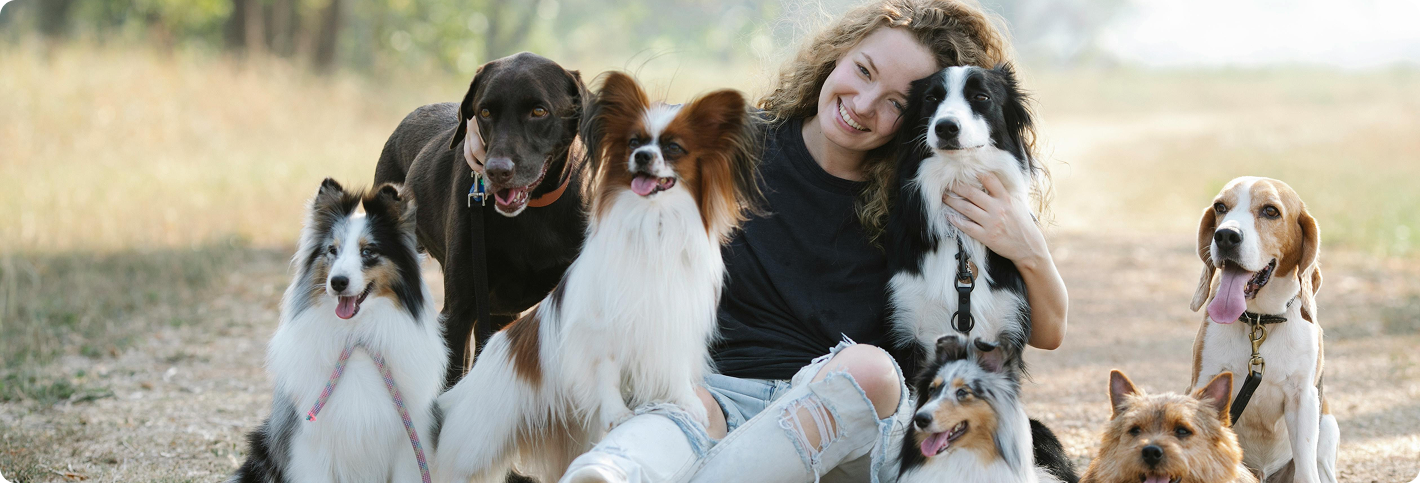
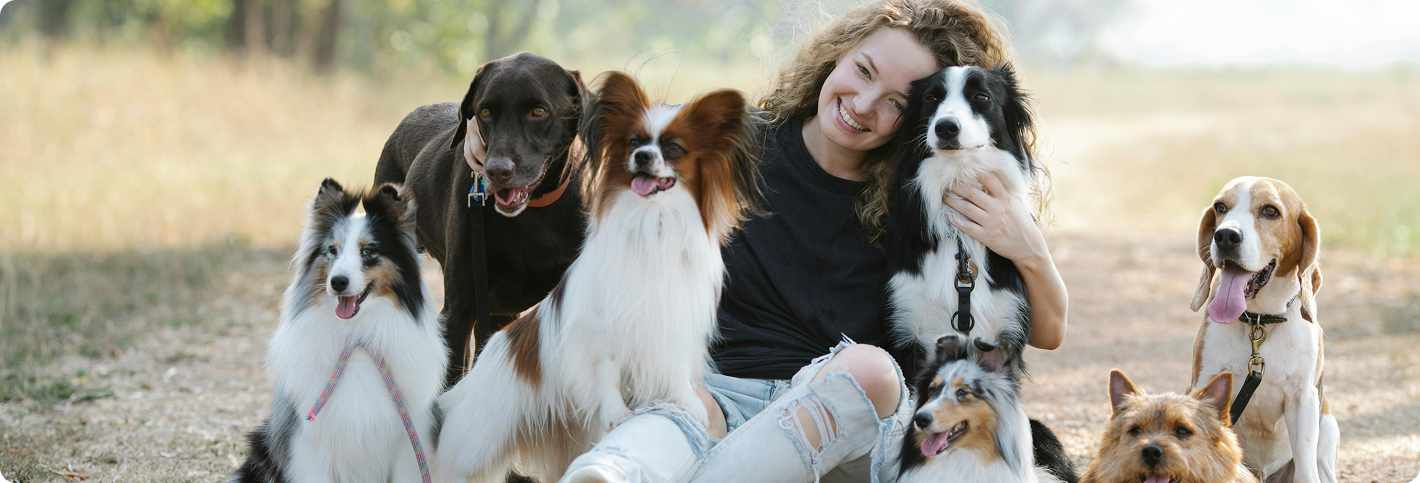
Size reduction for images

diff --git a/resources/views/welcome.blade.php b/resources/views/welcome.blade.php
@@ -12,7 +12,7 @@
 <main>
     <section>
         <div class="lg:relative overflow-hidden">
-            <img src="{{ asset('images/forest_dog.png') }}" alt="" class="w-full lg:min-w-[1098px] shadow-general">
+            <img src="{{ asset('images/forest_dog.jpg') }}" alt="" class="w-full lg:min-w-[1098px] shadow-general">
             <div class="lg:absolute lg:inset-0 lg:flex lg:flex-col lg:justify-between lg:py-12">
                 <div class="container mx-auto px-4 md:px-0">
                     <h2 class="font-bold text-h2 md:text-h2-desktop lg:text-5xl mb-6 lg:mb-8 mt-4 md:mt-0 lg:leading-16 lg:text-white lg:max-w-1/2">

diff --git a/resources/views/pages/⚡animals-list/animals-list.blade.php b/resources/views/pages/⚡animals-list/animals-list.blade.php
@@ -1,7 +1,7 @@
 <main>
     <section>
         <div class="lg:relative overflow-hidden">
-            <img src="{{ asset('images/adopt-dog.png') }}" alt="" class="w-full lg:min-w-[1098px]">
+            <img src="{{ asset('images/adopt-dog.jpg') }}" alt="" class="w-full lg:min-w-[1098p@x]">
             <div class="lg:absolute lg:inset-0 lg:flex lg:flex-col lg:py-4">
                 <div class="container mx-auto px-4 md:px-0 md:mb-4">
                     <x-general.headings2
